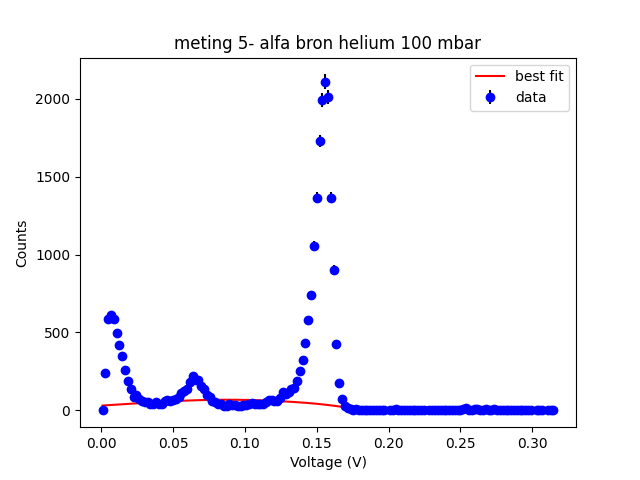
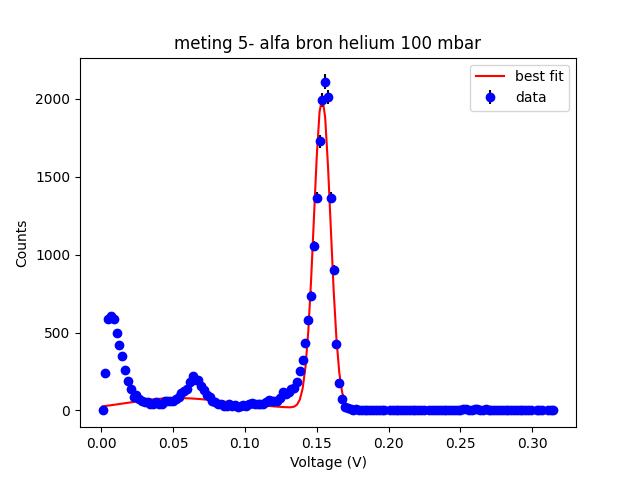
added combined plots and fixed issues by clearing lists

diff --git a/src/alpha/alpha_ray.py b/src/alpha/alpha_ray.py
@@ -14,8 +14,6 @@ os.chdir(os.path.dirname(path))
 
 python_file_path = os.getcwd()
 
-os.chdir(os.path.join(python_file_path, "CSV data"))
-
 
 class Measurement:
     """Can calculate a fit of a measurement and plot it. Can also convert a voltage to an energy value
@@ -35,6 +33,15 @@ class Measurement:
 
     stopping_power_list = []
 
+    path_length_gas_continuous = []
+    energy_gas_continuous = []
+    stopping_power_gas_continuous = []
+
+    path_length_gas_data = []
+    energy_gas_data = []
+    stopping_power_gas_data = []
+
+
     def __init__(self, data_file: str, pressure_start: int, pressure_end: int, end_point: int = None):
         """read the data of given csv file and put it in a dataframe
 
@@ -51,6 +58,8 @@ class Measurement:
 
 
         self.data_file = data_file
+        # go to CSV files directory
+        os.chdir(os.path.join(python_file_path, "CSV data"))
         self.df_diagram = pd.read_csv(data_file)
         self.df_diagram = self.df_diagram.loc[(self.df_diagram['y0000'] > 0)]
 
@@ -61,6 +70,19 @@ class Measurement:
         self.df_diagram["error_counts"] = np.sqrt(self.df_diagram['y0000'])
         self.title, _ = self.data_file.split('.')
     
+    @classmethod
+    def clear(cls):
+        cls.pressure_list = []
+        cls.path_length_list = []
+
+        cls.volt = []
+        cls.volt_error = []
+        cls.energy_list = []
+
+        cls.energy_error_list = []
+
+        cls.stopping_power_list = []
+
     @staticmethod
     def pressure_mean(pressure_start, pressure_end):
         pressure_mean = round(np.mean((pressure_start, pressure_end)))
@@ -128,7 +150,7 @@ class Measurement:
         self.fit_gauss1mu_err = self.result_signal.params['gauss1_mu'].stderr
 
         # only calculate the conversion factor in vacuum
-        if self.pressure < 0.1:
+        if self.pressure < 0.05:
             self.calc_conversion_factor()
 
         Measurement.volt.append(self.fit_gauss1mu)
@@ -158,34 +180,34 @@ class Measurement:
         energy_weight = [1/energy_err for energy_err in cls.energy_error_list]
         cls.model_energy = models.Model(cls.exp_decay, nan_policy='propagate')
         cls.result_energy = cls.model_energy.fit(cls.energy_list, x=cls.path_length_list, weights=energy_weight, a=0.1, b=5, c=2)
-        print(cls.result_energy.fit_report())
+        # print(cls.result_energy.fit_report())
         cls.a = cls.result_energy.params['a'].value
         cls.b = cls.result_energy.params['b'].value
         cls.c = cls.result_energy.params['c'].value
 
 
     @classmethod
-    def energy_plot(cls):
+    def energy_plot(cls, gas: str):
         """Plot a diagram of the energy of the alpha particle against the path length 
         """
         cls.energy_list = [cls.exp_decay(num, a=cls.a, b=cls.b, c=cls.c) for num in cls.path_length_list]
-        cls.path_length_continuous = np.arange(cls.path_length_list[0], 4, 0.01)
+        cls.path_length_continuous = np.arange(0, 4, 0.01)
         cls.energy_continuous = [cls.exp_decay(num, a=cls.a, b=cls.b, c=cls.c) if cls.exp_decay(num, a=cls.a, b=cls.b, c=cls.c) > 0 else 0 for num in cls.path_length_continuous]
 
-        fig = plt.figure("(E,x)_diagram.png")
+        fig = plt.figure(f"(E,x)_diagram_{gas}.png")
         plt.errorbar(cls.path_length_list, cls.energy_list, yerr=cls.energy_error_list, fmt='bo', ecolor='k', label='Measured data')
         plt.plot(cls.path_length_continuous, cls.energy_continuous, 'g', label=f'E(x) = c - a*b^x')
         plt.plot(cls.path_length_list, cls.result_energy.best_fit, 'r', label=f'Energy fit in measured range')
-        plt.xlabel('path length (cm)')
+        plt.xlim(0,4)
+        plt.ylim(0,6)
+        plt.xlabel('Path length (cm)')
         plt.ylabel('Energy (MeV)')
-        plt.legend(loc='upper right')
+        plt.legend(loc='lower left')
 
         # go to fits folder to save fit
         os.chdir(os.path.join(python_file_path, "Fits"))
-        plt.savefig("(E,x)_diagram.png")
+        plt.savefig(f"(E,x)_diagram_{gas}.png")
 
-        # go to csv folder to read csv
-        os.chdir(os.path.join(python_file_path, "CSV data"))
         plt.show()
     
     def calc_conversion_factor(self):
@@ -240,26 +262,25 @@ class Measurement:
         return stopping_power
     
     @classmethod
-    def stopping_power_plot(cls):
+    def stopping_power_plot(cls, gas: str):
         """Plots the stopping power against the path length and plots an (E,x) and a (S,x) diagram
         """
         cls.stopping_power_list = [cls.stopping_power_function(num) for num in cls.path_length_list]
-        cls.path_length_continuous = np.arange(cls.path_length_list[0], 4, 0.01)    
+        cls.path_length_continuous = np.arange(0, 4, 0.01)    
         cls.stopping_power_continuous = [cls.stopping_power_function(num) if cls.exp_decay(num, a=cls.a, b=cls.b, c=cls.c) > 0 else 0 for num in cls.path_length_continuous]
-        fig = plt.figure("(S,x)_diagram.png")
+        fig = plt.figure(f"(S,x)_diagram_{gas}.png")
         plt.scatter(cls.path_length_list, cls.stopping_power_list, c='blue', label='Calculated stopping power of measured data')  
         plt.plot(cls.path_length_continuous, cls.stopping_power_continuous, 'g-', label=f'S(x) = dE/dx = ln(b)*a*b^x')
         plt.plot(cls.path_length_list, cls.stopping_power_list, c='red', label='Stopping power function')
-        plt.xlabel("path length (cm)")
+        plt.xlim(0,4)
+        plt.xlabel("Path length (cm)")
         plt.ylabel("Stopping power (MeV/cm)")
         plt.legend(loc='upper left')
 
         # go to fits folder to save fit
         os.chdir(os.path.join(python_file_path, "Fits"))
-        plt.savefig("(S,x)_diagram.png")
+        plt.savefig(f"(S,x)_diagram_{gas}.png")
 
-        # go to csv folder to read csv
-        os.chdir(os.path.join(python_file_path, "CSV data"))
         plt.show()
     
     @classmethod
@@ -272,6 +293,79 @@ class Measurement:
         # we could also use c - E0 instead of a
         range_alpha_ray = np.log(cls.c/(cls.a))/np.log(cls.b)
         return range_alpha_ray
+
+    @classmethod
+    def energy_plot_all(cls):
+        fig = plt.figure(f"(E,x)_diagram_all.png")
+
+        # plot continous functions
+        plt.plot(cls.path_length_gas_continuous[0], cls.energy_gas_continuous[0], 'cyan', label=f'Energy in air')
+        plt.plot(cls.path_length_gas_continuous[1], cls.energy_gas_continuous[1], 'salmon', label=f'Energy in argon')
+        plt.plot(cls.path_length_gas_continuous[2], cls.energy_gas_continuous[2], 'springgreen', label=f'Energy in helium')
+
+        # plot data points
+        plt.errorbar(cls.path_length_gas_data[0], cls.energy_gas_data[0], fmt='bo', ecolor='k', label='Measured energy')
+        plt.errorbar(cls.path_length_gas_data[1], cls.energy_gas_data[1], fmt='bo', ecolor='k')
+        plt.errorbar(cls.path_length_gas_data[2], cls.energy_gas_data[2], fmt='bo', ecolor='k')
+
+        # plot functions in measured range
+        plt.plot(cls.path_length_gas_data[0], cls.energy_gas_data[0], 'darkblue', label='Energy in measured range air')
+        plt.plot(cls.path_length_gas_data[1], cls.energy_gas_data[1], 'darkred', label='Energy in measured range argon')
+        plt.plot(cls.path_length_gas_data[2], cls.energy_gas_data[2], 'darkgreen', label='Energy in measured range helium')
+
+        plt.xlim(0, 4)
+        plt.ylim(0, 6)
+        plt.xlabel("Path length (cm)")
+        plt.ylabel("Energy (MeV)")
+        plt.legend(loc='lower left')
+
+        # go to fits folder to save fit
+        os.chdir(os.path.join(python_file_path, "Fits"))
+        plt.savefig("(E,x)_diagram_all.png")
+
+        plt.show()
+
+    @classmethod
+    def stopping_power_plot_all(cls):
+        fig = plt.figure(f"(S,x)_diagram_all.png")
+
+        # plot continuous functions
+        plt.plot(cls.path_length_gas_continuous[0], cls.stopping_power_gas_continuous[0], 'cyan', label=f'Stopping power in air')
+        plt.plot(cls.path_length_gas_continuous[1], cls.stopping_power_gas_continuous[1], 'salmon', label=f'Stopping power in argon')
+        plt.plot(cls.path_length_gas_continuous[2], cls.stopping_power_gas_continuous[2], 'springgreen', label=f'Stopping power in helium')
+
+        # plot data points
+        plt.errorbar(cls.path_length_gas_data[0], cls.stopping_power_gas_data[0], fmt='bo', ecolor='k', label='Calculated stopping power of measured data')
+        plt.errorbar(cls.path_length_gas_data[1], cls.stopping_power_gas_data[1], fmt='bo', ecolor='k')
+        plt.errorbar(cls.path_length_gas_data[2], cls.stopping_power_gas_data[2], fmt='bo', ecolor='k')
+
+        # plot functions in measured range
+        plt.plot(cls.path_length_gas_data[0], cls.stopping_power_gas_data[0], 'darkblue', label='Stopping power in measured range air')
+        plt.plot(cls.path_length_gas_data[1], cls.stopping_power_gas_data[1], 'darkred', label='Stopping power in measured range argon')
+        plt.plot(cls.path_length_gas_data[2], cls.stopping_power_gas_data[2], 'darkgreen', label='Stopping power in measured range helium')        
+
+
+        plt.xlim(0, 4)
+        plt.ylim(0, 12.5)
+        plt.xlabel("Path length (cm)")
+        plt.ylabel("Stopping power (MeV/cm)")
+        plt.legend(loc='upper left')
+
+        # go to fits folder to save fit
+        os.chdir(os.path.join(python_file_path, "Fits"))
+        plt.savefig("(S,x)_diagram_all.png")
+
+        plt.show()
+    
+    @classmethod
+    def save_data(cls):
+        cls.path_length_gas_continuous.append(cls.path_length_continuous)
+        cls.energy_gas_continuous.append(cls.energy_continuous)
+        cls.stopping_power_gas_continuous.append(cls.stopping_power_continuous)
+
+        cls.path_length_gas_data.append(cls.path_length_list)
+        cls.energy_gas_data.append(cls.energy_list)
+        cls.stopping_power_gas_data.append(cls.stopping_power_list)
 
 
 def measurement_air():
@@ -322,9 +416,12 @@ def measurement_air():
     # air_900mbar.data_plot()
 
     Measurement.energy_fit()
-    Measurement.energy_plot()
-    Measurement.stopping_power_plot()
+    Measurement.energy_plot(gas='air')
+    Measurement.stopping_power_plot(gas='air')
     print(f"The range of an alpha particle in air with atmosiferic pressure is {round(Measurement.alpha_range(), 2)} cm")
+
+    Measurement.save_data()
+    Measurement.clear()
 
 def measurement_argon():
     """runs the experiment with different pressures in argon
@@ -363,12 +460,15 @@ def measurement_argon():
 
     argon_700mbar = Measurement("meting 4- alfa bron argon 700 mbar.csv", end_point=1000, pressure_start = argon_start_list[7], pressure_end=argon_end_list[7])
     argon_700mbar.data_fit(start_expmu=0.05, start_gauss1_mu=0.13)
-    argon_700mbar.data_plot()
+    # argon_700mbar.data_plot()
 
     Measurement.energy_fit()
-    Measurement.energy_plot()
-    Measurement.stopping_power_plot()
+    Measurement.energy_plot(gas='argon')
+    Measurement.stopping_power_plot(gas='argon')
     print(f"The range of an alpha particle in argon with atmospheric pressure is {round(Measurement.alpha_range(), 2)} cm")
+
+    Measurement.save_data()
+    Measurement.clear()
 
 def measurement_helium():
     """runs the experiment with different pressures in helium
@@ -378,32 +478,32 @@ def measurement_helium():
     helium_end_list = [22, 64, 115, 166, 215, 267, 315, 367, 417, 470, 521, 581, 627, 677, 737]
 
     argon_vacuum = Measurement("meting 4- alfa bron argon 21 mbar.csv", end_point=1000, pressure_start = helium_start_list[0], pressure_end=helium_end_list[0])
-    argon_vacuum.data_fit(start_expmu=0.05, start_gauss1_mu=0.2)
-    argon_vacuum.data_plot()
+    argon_vacuum.data_fit(start_expmu=0.01, start_gauss1_mu=0.15)
+    # argon_vacuum.data_plot()
 
     helium_50mbar = Measurement("meting 5- alfa bron helium 50 mbar.csv", end_point=1000, pressure_start = helium_start_list[1], pressure_end=helium_end_list[1])
-    helium_50mbar.data_fit(start_expmu=0.05, start_gauss1_mu=0.18)
-    helium_50mbar.data_plot()
+    helium_50mbar.data_fit(start_expmu=0.01, start_gauss1_mu=0.15)
+    # helium_50mbar.data_plot()
 
     helium_100mbar = Measurement("meting 5- alfa bron helium 100 mbar.csv", end_point=1000, pressure_start = helium_start_list[2], pressure_end=helium_end_list[2])
-    helium_100mbar.data_fit(start_expmu=0.05, start_gauss1_mu=0.2)
-    helium_100mbar.data_plot()
+    helium_100mbar.data_fit(start_expmu=0.01, start_gauss1_mu=0.15)
+    # helium_100mbar.data_plot()
 
     helium_150mbar = Measurement("meting 5- alfa bron helium 150 mbar.csv", end_point=1000, pressure_start = helium_start_list[3], pressure_end=helium_end_list[3])
-    helium_150mbar.data_fit(start_expmu=0.05, start_gauss1_mu=0.18)
-    helium_150mbar.data_plot()
+    helium_150mbar.data_fit(start_expmu=0.005, start_gauss1_mu=0.15)
+    # helium_150mbar.data_plot()
 
     helium_200mbar = Measurement("meting 5- alfa bron helium 200 mbar.csv", end_point=1000, pressure_start = helium_start_list[4], pressure_end=helium_end_list[4])
-    helium_200mbar.data_fit(start_expmu=0.025, start_gauss1_mu=0.17)
-    helium_200mbar.data_plot()
+    helium_200mbar.data_fit(start_expmu=0.005, start_gauss1_mu=0.15)
+    # helium_200mbar.data_plot()
 
     helium_250mbar = Measurement("meting 5- alfa bron helium 250 mbar.csv", end_point=1000, pressure_start = helium_start_list[5], pressure_end=helium_end_list[5])
-    helium_250mbar.data_fit(start_expmu=0.025, start_gauss1_mu=0.16)
-    helium_250mbar.data_plot()
+    helium_250mbar.data_fit(start_expmu=0.01, start_gauss1_mu=0.15)
+    # helium_250mbar.data_plot()
 
     helium_300mbar = Measurement("meting 5- alfa bron helium 300 mbar.csv", end_point=1000, pressure_start = helium_start_list[6], pressure_end=helium_end_list[6])
-    helium_300mbar.data_fit(start_expmu=0.05, start_gauss1_mu=0.14)
-    helium_300mbar.data_plot()
+    helium_300mbar.data_fit(start_expmu=0.005, start_gauss1_mu=0.15)
+    # helium_300mbar.data_plot()
 
     helium_350mbar = Measurement("meting 5- alfa bron helium 350 mbar.csv", end_point=1000, pressure_start = helium_start_list[7], pressure_end=helium_end_list[7])
     helium_350mbar.data_fit(start_expmu=0.05, start_gauss1_mu=0.13)
@@ -438,16 +538,22 @@ def measurement_helium():
     # helium_700mbar.data_plot()
 
     Measurement.energy_fit()
-    Measurement.energy_plot()
-    Measurement.stopping_power_plot()
+    Measurement.energy_plot(gas='helium')
+    Measurement.stopping_power_plot(gas='helium')
     print(f"The range of an alpha particle in helium with atmospheric pressure is {round(Measurement.alpha_range(), 2)} cm")
+
+    Measurement.save_data()
+    Measurement.clear()
 
 def run():
     """Runs measurements with different gasses
     """    
-    # measurement_air()
-    # measurement_argon()
+    measurement_air()
+    measurement_argon()
     measurement_helium()
+
+    Measurement.energy_plot_all()
+    Measurement.stopping_power_plot_all()
 
 
 if __name__ == "__main__":
